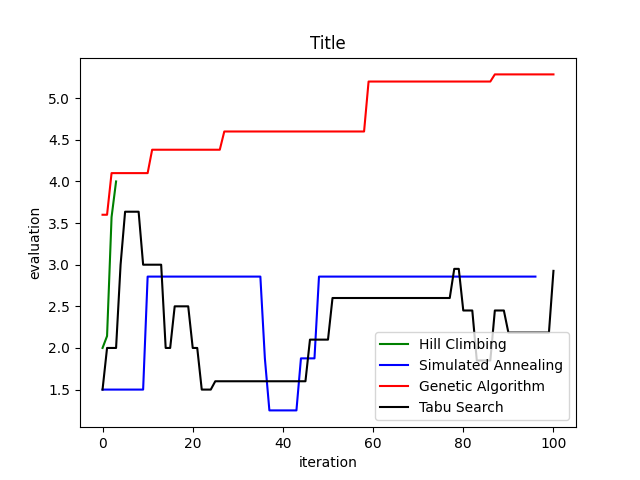
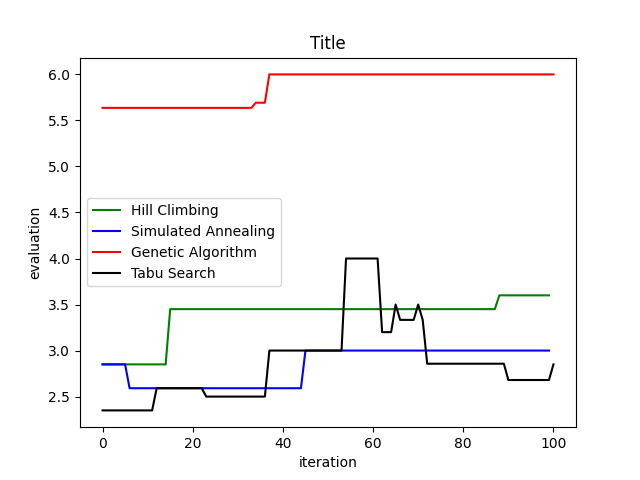
changes in SA

diff --git a/Proj1/main.py b/Proj1/main.py
@@ -7,10 +7,11 @@ def print_menu():
     print("*                                                                              *")
     print("*                                 INSTRUCTIONS                                 *")
     print("*                                                                              *")
-    print("*  1. Input file's letter without extension( from 'a' to 'f').                 *")
-    print("*  2. Choose the size of the population to be used in the genetic algorithm.   *")
-    print("*  3. Pick between Tournament and Roulette Selection.                          *")
-    print("*  4. Pick the crossover function                                              *")
+    print("*  1. Input file's letter without extension( from 'a' to 'c').                 *")
+    print("*  2. Choose the cooling algorithm for Simulated Annealing.                    *")
+    print("*  3. Choose the size of the population to be used in the genetic algorithm.   *")
+    print("*  4. Pick between Tournament and Roulette Selection.                          *")
+    print("*  5. Pick the crossover function                                              *")
     print("*                                                                              *")
     print("*                                                                              *")
     print("********************************************************************************")
@@ -25,6 +26,8 @@ if __name__ == "__main__":
     team = read_dataset(filename)
     sol = Solution(team)
 
+    cooling_algorithm = int(input("Select one of the following cooling algorithms: \n1) Exponential multiplicative \n2) Logarithmical multiplicative \n3) Linear multiplicative \n4) Quadratic multiplicative \n"))
+
     size_of_pop = int(input("Input the desired population size: "))
     parents_algorithm = int(input("Select one of the following algorithms to select the parents: \n1) tournament selection \n2) roulette_selection\n"))
     crossover_algorithm = int(input("Select one of the following algorithms to select the crossover function: \n1)First half of parent 1 and second half of parent 2 \n2)First half of parent 2 and second half of parent 1 \n3)Randomly choose between 1) and 2)\n"))
@@ -34,7 +37,7 @@ if __name__ == "__main__":
     sol1, hill_evals = sol.hill_climbing()
     print("Best value with hill climbing was ", sol1)
 
-    sol2, annealing_evals = sol.simulated_annealing()
+    sol2, annealing_evals = sol.simulated_annealing(cooling_algorithm)
     print("Best value with simulated annealing was ", sol2)
 
     sol3, genetic_evals = sol.genetic_algorithm(size_of_pop, parents_algorithm, crossover_algorithm)
@@ -58,7 +61,9 @@ if __name__ == "__main__":
 
     plt.savefig("output/iterations.png")
 
-    plt.show()
+    #plt.show()
+
+    plt.clf()
 
 
     solutions = [sol.evaluate(sol1), sol.evaluate(sol2), sol.evaluate(sol3), sol.evaluate(sol4)]
@@ -73,6 +78,6 @@ if __name__ == "__main__":
 
     plt.savefig("output/best_evaluation.png")
 
-    plt.show()
+    #plt.show()
 
 

diff --git a/Proj1/algorithms.py b/Proj1/algorithms.py
@@ -9,7 +9,7 @@ class Solution:
             self.solution.append([random.randint(0,1) for _ in range(team.n_members)])
             #self.solution.append([0 for _ in range(team.n_members)])
 
-    def evaluate(self, solution) -> int:
+    def evaluate(self, solution):
         #print("NEIGHBOUR: ", solution)
         #return (sum(solution[0]) + sum(solution[1]) + sum(solution[2]) + sum(solution[3]))
         
@@ -144,17 +144,18 @@ class Solution:
             evaluation = self.evaluate(neighbour)
 
             if evaluation > self.evaluate(solution):
-                ev.append(evaluation)
                 solution = neighbour
-                it = 0
+                #it = 0
                 if evaluation > best_sol_eval:
                     #all time best
                     best_sol = neighbour
                     best_sol_eval = evaluation
 
+            ev.append(self.evaluate(solution))
+
         return best_sol, ev
 
-    def simulated_annealing(self):
+    def simulated_annealing(self, cooling_algorithm):
         ev = []
 
         best_sol = []
@@ -162,28 +163,41 @@ class Solution:
 
         solution = self.solution.copy()
         it = 0
-        T = 1000
+        T0 = 50
 
         while it < 100:
-            it += 1
 
-            T = self.T_schedule(T)
+            T = self.T_schedule(T0, it, cooling_algorithm)
             neighbour = self.neighbour3(copy.deepcopy(solution))
             evaluation = self.evaluate(neighbour)
-            delta = evaluation - self.evaluate(solution)
+            delta = float(evaluation - self.evaluate(solution))
 
-            if delta > 0 or exp(delta / T) > random.random():
-                ev.append(evaluation)
+            #print(delta / T, 'and', T, 'and', delta)
+
+            it += 1
+            
+            if delta > 0 or random.random() < exp(delta / T):
                 solution = neighbour
                 if evaluation > best_sol_eval:
                     #all time best
                     best_sol = neighbour
                     best_sol_eval = evaluation
 
+            ev.append(self.evaluate(solution))
+
         return best_sol, ev
 
-    def T_schedule(self, T):
-        return 0.90 * T
+    def T_schedule(self, T0, it, cooling_option):
+        if(cooling_option == 1):
+            return T0 * 0.80 ** it
+        elif(cooling_option == 2):
+            return T0 / (1 + 2 * math.log(1 + it))
+        elif(cooling_option == 3):
+            return T0 / (1 + 1 * it) 
+        else:
+            return T0 / (1 + 0.5 * it ** 2) 
+        
+
 
 
     def tabu_tenure(self):
